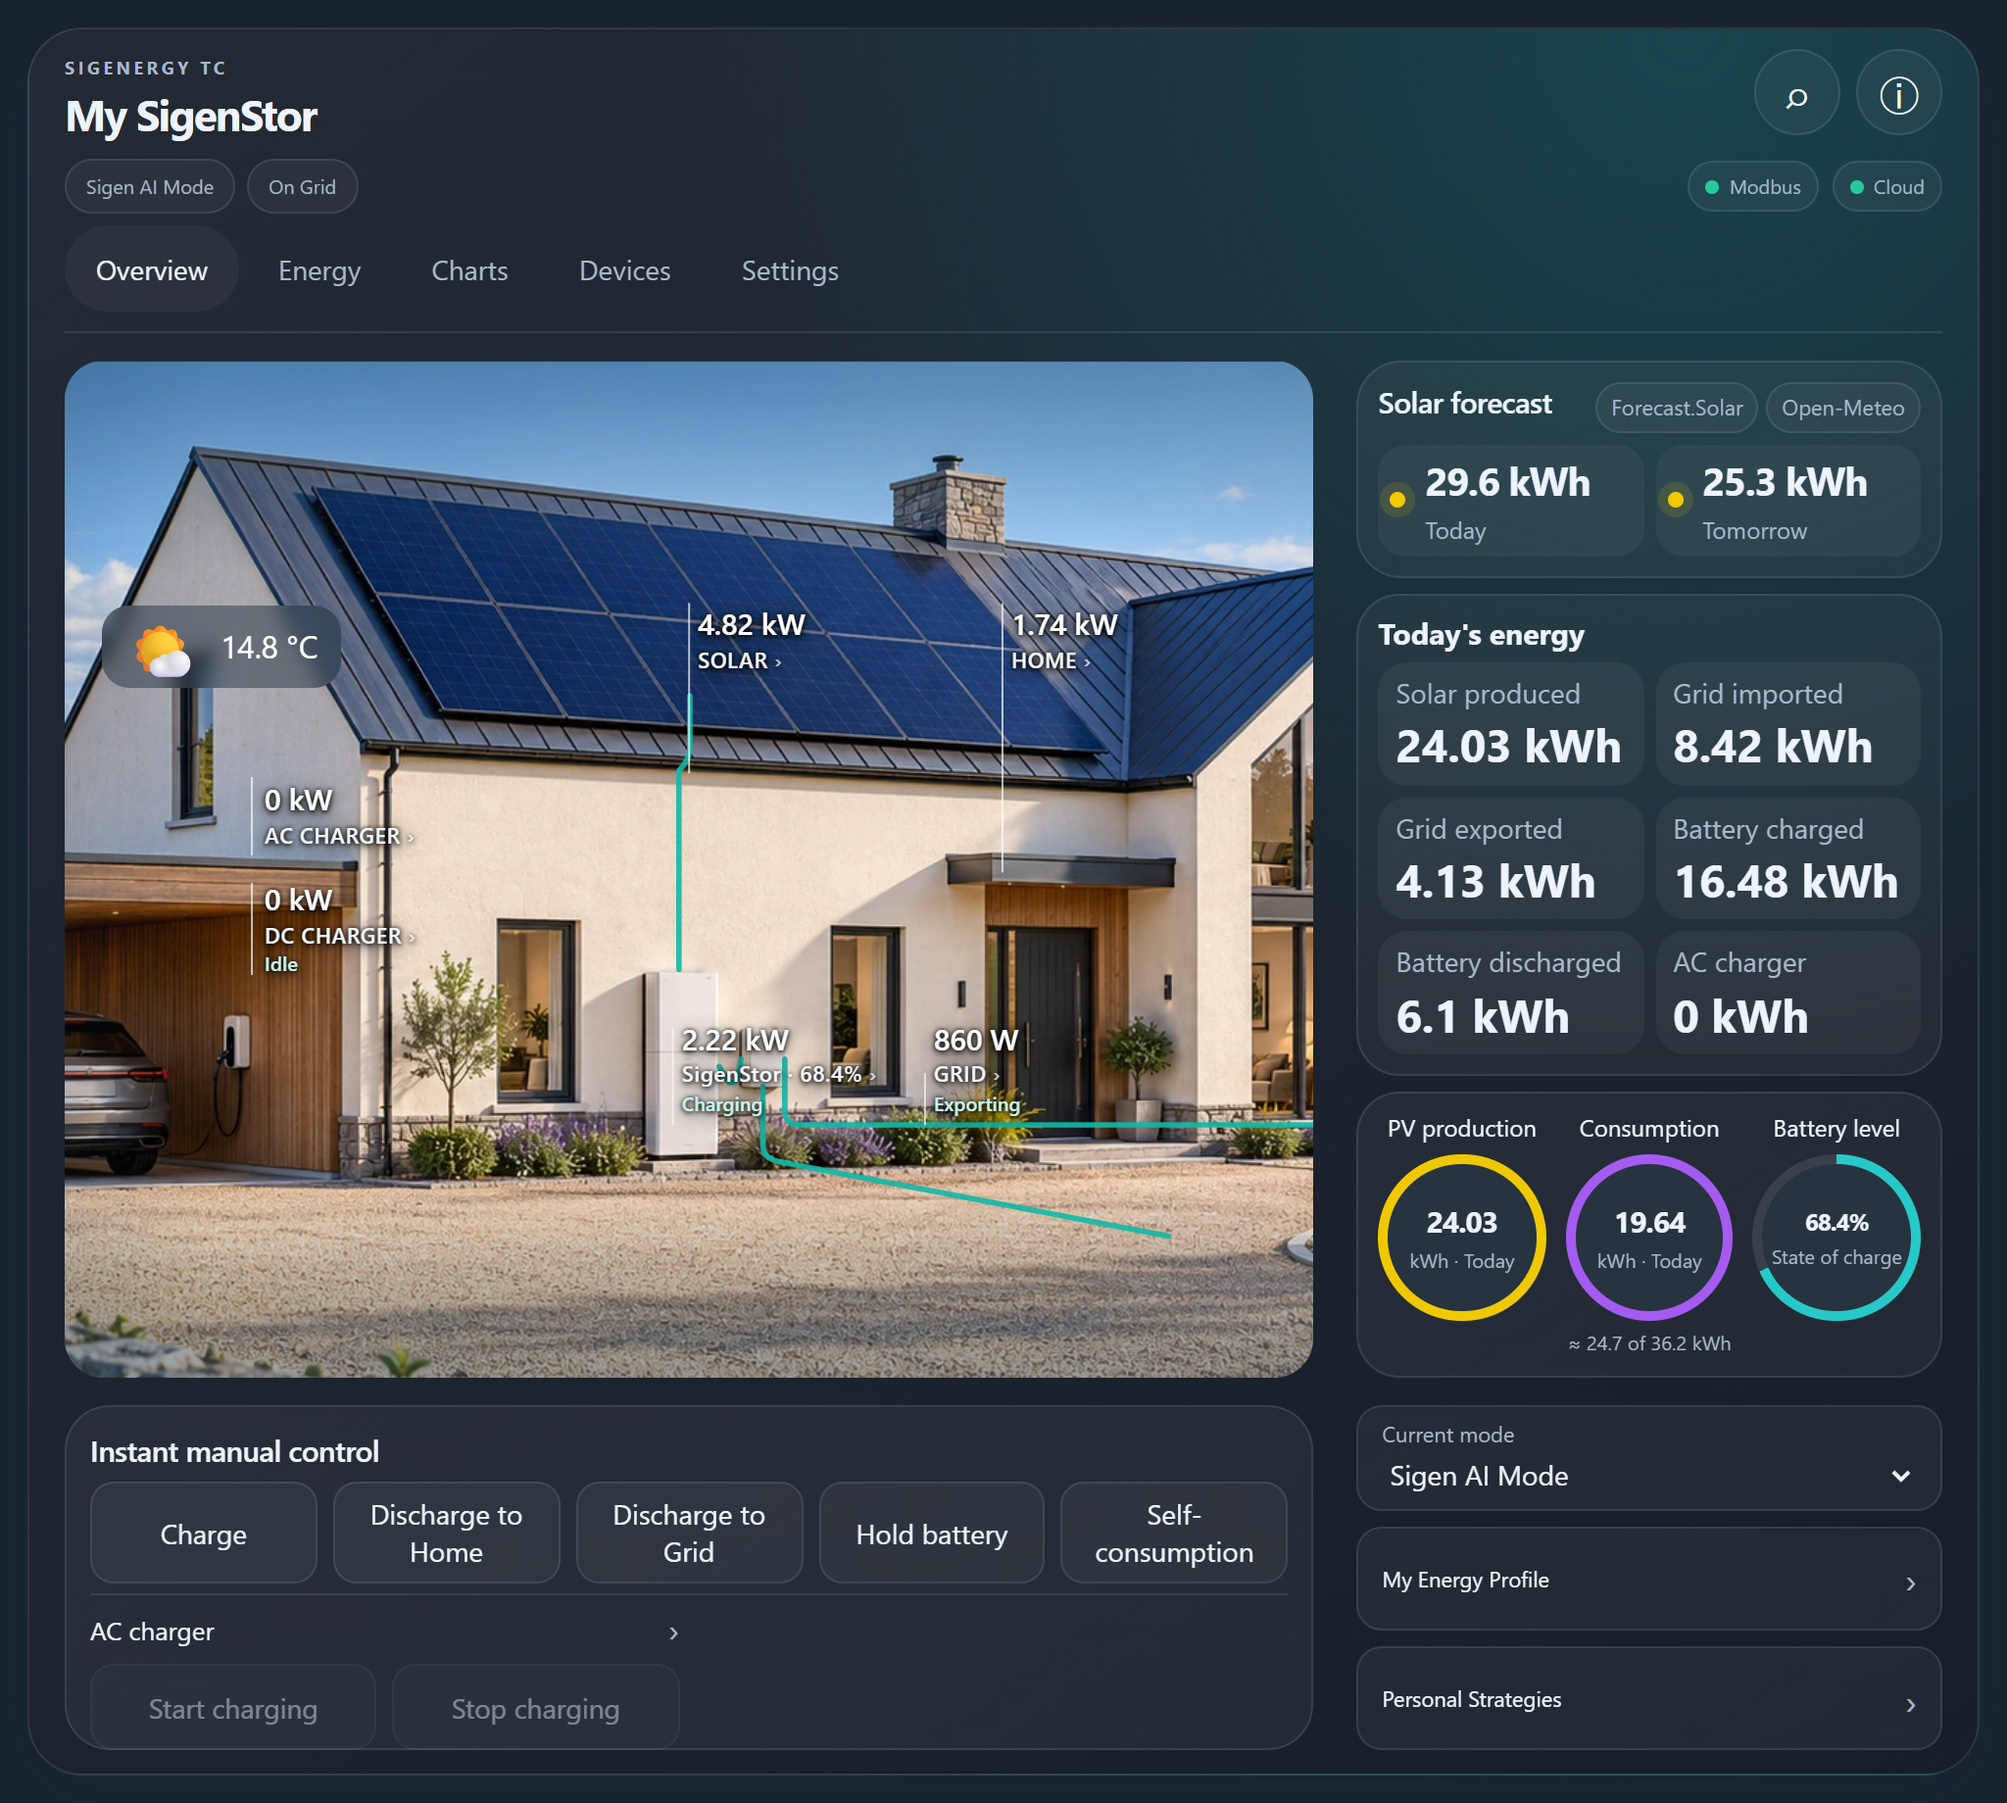
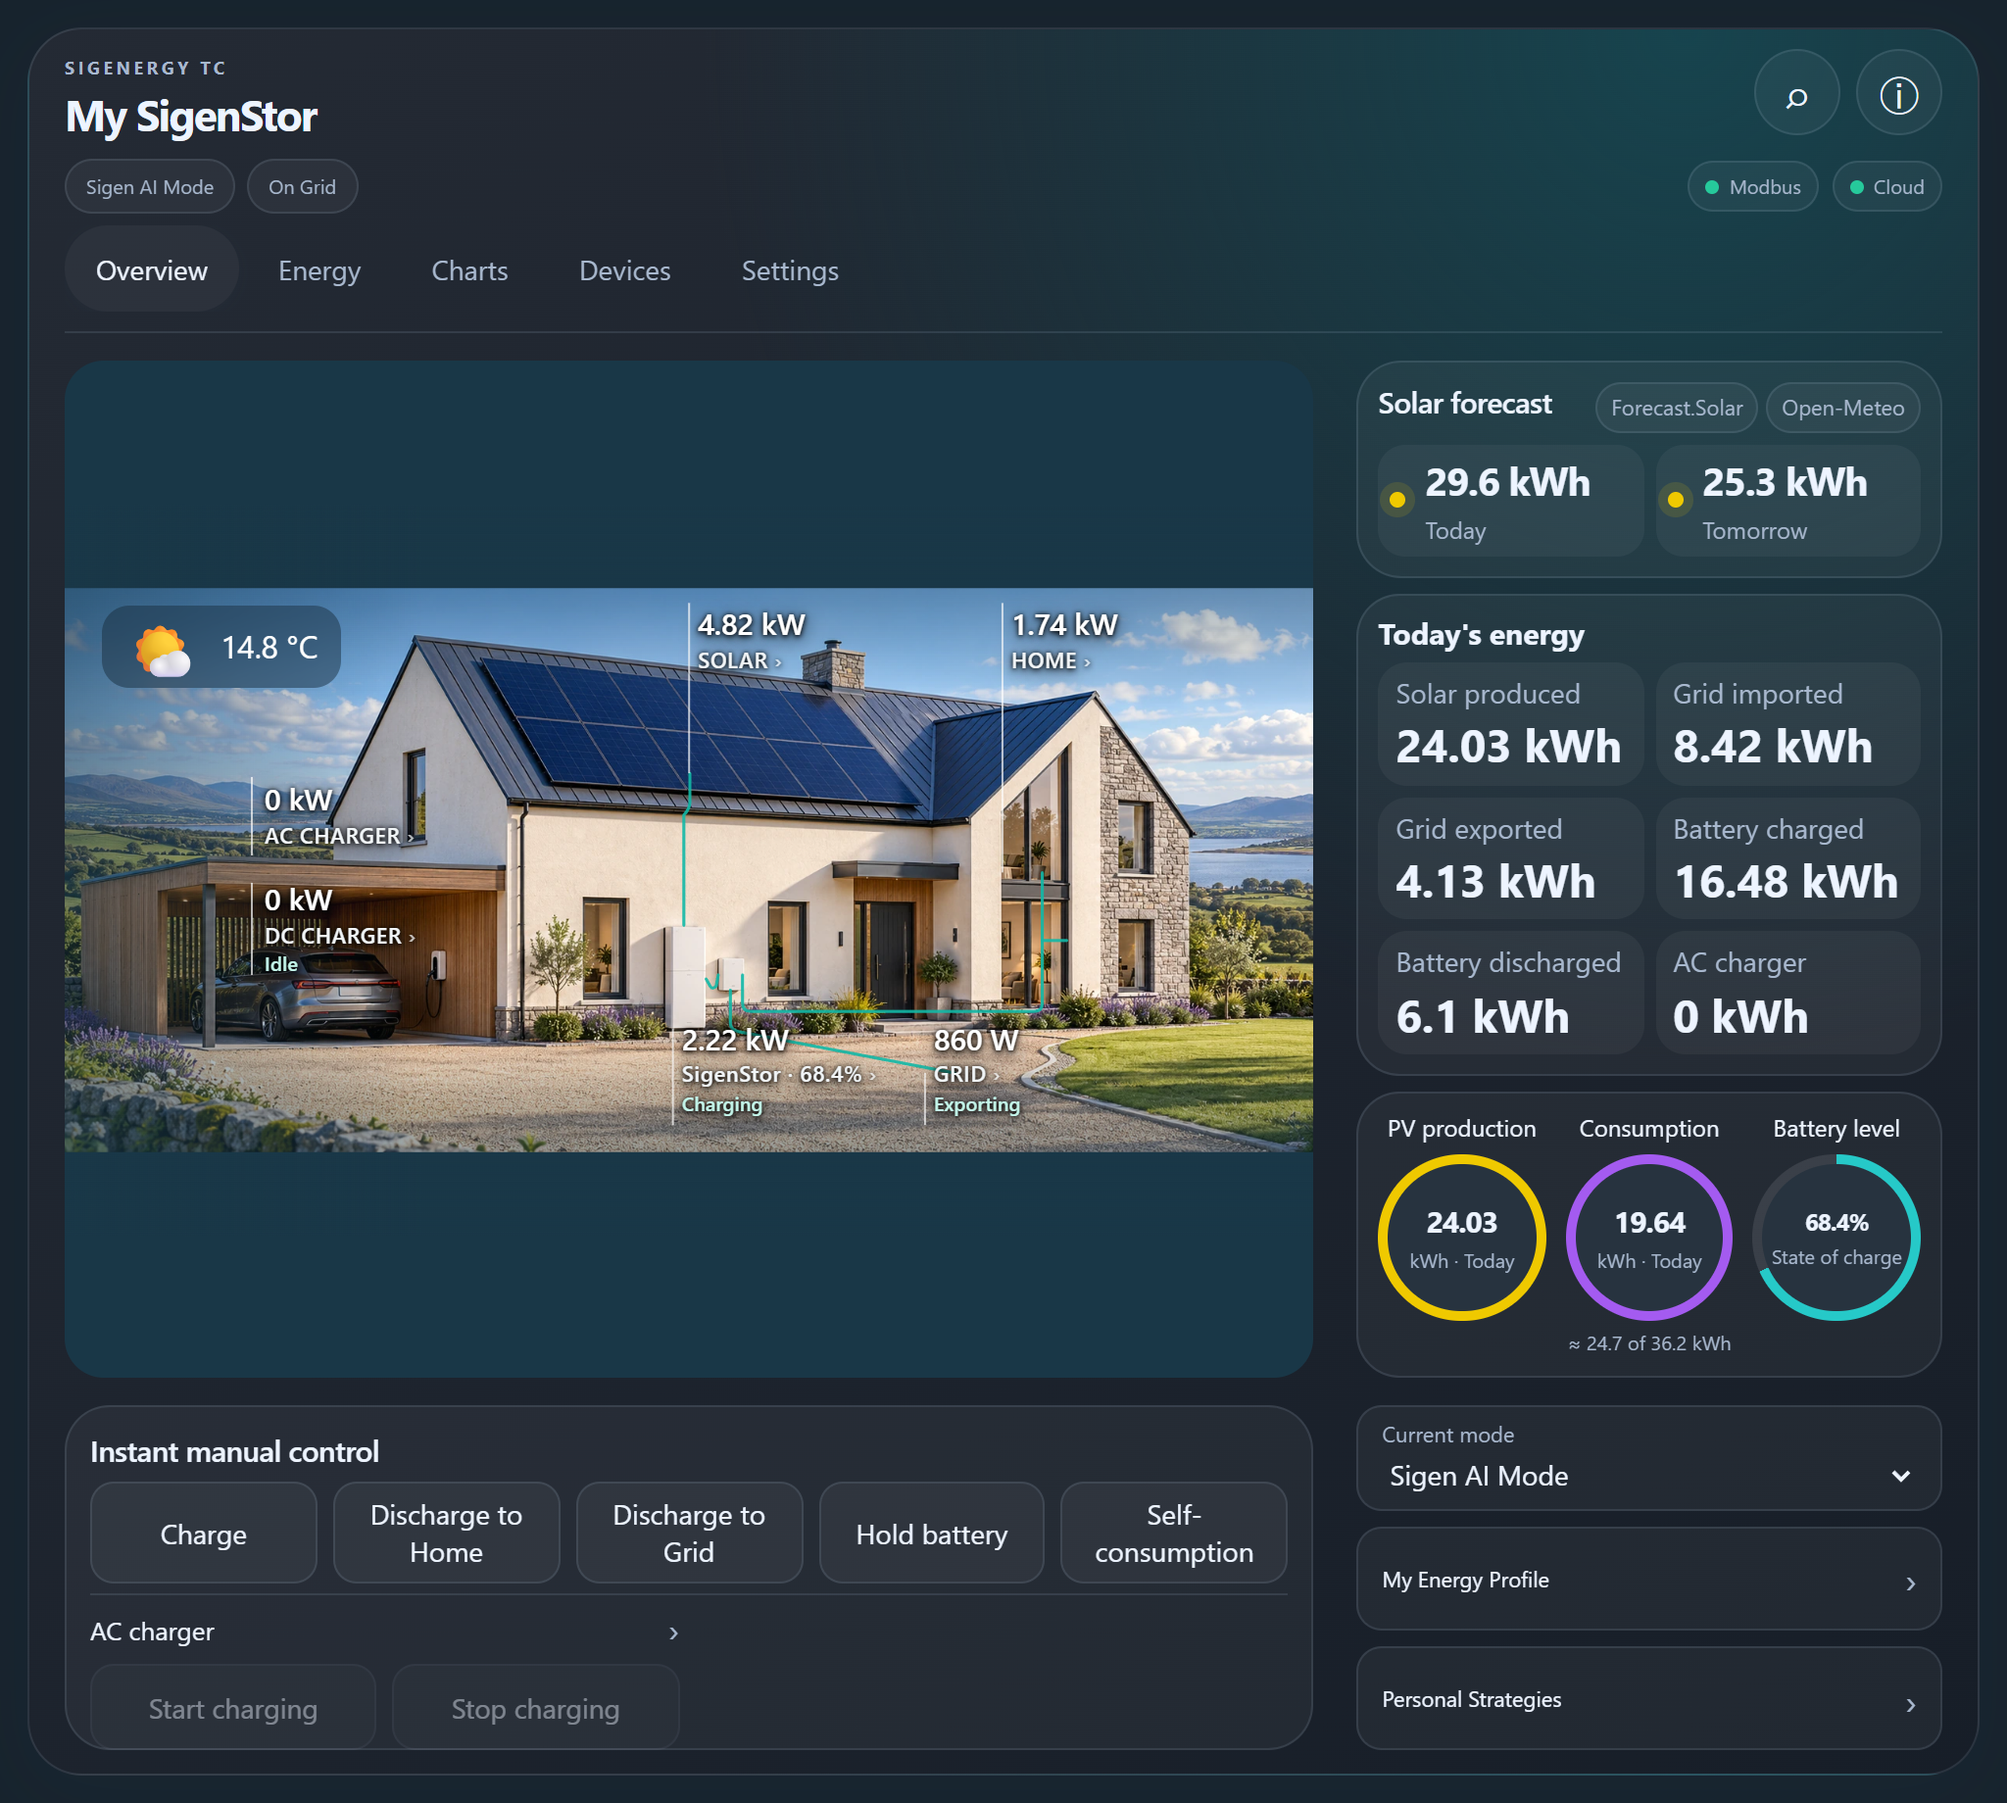
Verify artwork framing and refresh embedded tablet preview

diff --git a/custom_components/sigen_hybrid/frontend/sigen-hybrid-fit.js b/custom_components/sigen_hybrid/frontend/sigen-hybrid-fit.js
@@ -61,7 +61,7 @@ ha-card.embedded-shell>main{min-width:0;min-height:0}
 :host([data-sigen-fit]) .compact-overview.overview-aligned-controls{height:100%;min-height:0;grid-template-rows:minmax(min-content,1fr) 196px!important}
 :host([data-sigen-fit]) .compact-overview .overview-summary-stack{min-height:min-content;grid-template-rows:auto minmax(min-content,1fr) auto}
 .compact-overview .main-display-stage>.sigen-photo-scene{container-type:size;display:grid;place-items:center;isolation:isolate}
-.compact-overview .main-display-stage .sigen-photo-frame{container-type:inline-size;flex:none;width:min(100cqw,calc(100cqh * 1490 / 673));height:min(100cqh,calc(100cqw * 673 / 1490));aspect-ratio:1490/673}
+.compact-overview .main-display-stage .sigen-photo-frame{container-type:size;flex:none;width:min(100cqw,calc(100cqh * 1490 / 673));height:min(100cqh,calc(100cqw * 673 / 1490));aspect-ratio:1490/673}
 .compact-overview .sigen-photo-scene::before{content:'';position:absolute;inset:-20px;z-index:-1;background-image:var(--sigen-photo-image);background-size:cover;background-position:center;filter:blur(16px);opacity:.45}
 /* The artwork, cables and labels keep one shared aspect ratio. */
 @container sigen-card (min-width:651px) and (max-width:949px){
